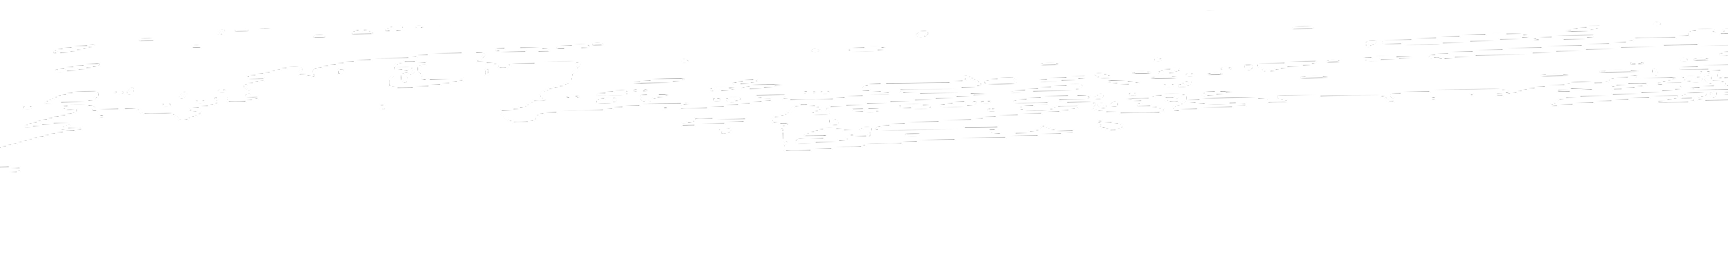
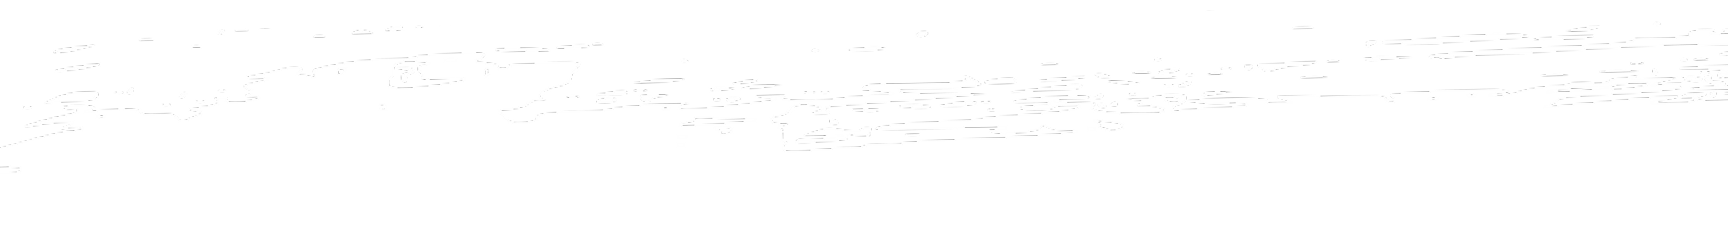
responsive update

diff --git a/src/components/Header.jsx b/src/components/Header.jsx
@@ -20,7 +20,7 @@ export default function Header({ onOpenEnquiry }) {
           <div className="max-w-[1728px] w-full mx-auto flex items-center justify-between">
 
             {/* Left: Phone + Email */}
-            <div className="flex items-center gap-6 text-white/70 text-[13px] md:text-[15px] font-medium tracking-[0.05em]"
+            <div className="hidden lg:flex  items-center gap-6 text-white/70 text-[13px] md:text-[15px] font-medium tracking-[0.05em]"
               style={{ fontFamily: 'Urbanist, sans-serif' }}>
               <span className="flex items-center gap-2">
                 <Phone size={16} className="text-white/70 shrink-0" />
@@ -33,7 +33,7 @@ export default function Header({ onOpenEnquiry }) {
             </div>
 
             {/* Right: Social Icons — leave enough right padding for the badge area */}
-            <div className="flex items-center gap-5 text-white/70 pr-2">
+            <div className="hidden lg:flex  items-center gap-5 text-white/70 pr-2">
               <a href="#" aria-label="Facebook" className="hover:text-[#b08f5a] transition-colors">
                 <FacebookIcon className="w-[18px] h-[18px]" />
               </a>
@@ -53,7 +53,7 @@ export default function Header({ onOpenEnquiry }) {
           <div className="max-w-[1728px] w-full mx-auto px-4 md:px-16 flex items-center justify-between">
 
             {/* Left Nav Links */}
-            <nav className="hidden md:flex items-center gap-10 lg:gap-16 ml-[12rem]">
+            <nav className="hidden md:flex items-center gap-10 lg:gap-16 xl:ml-[10rem] ">
               <a href="#home"
                 className="font-['Josefin_Sans'] text-lg lg:text-md font-bold text-[#035186] hover:text-[#b08f5a] transition-colors">
                 Home
@@ -68,7 +68,7 @@ export default function Header({ onOpenEnquiry }) {
             <div className="hidden md:block w-[200px] lg:w-[294px]" />
 
             {/* Right Nav Links */}
-            <nav className="hidden md:flex items-center gap-10 lg:gap-16 mr-[12rem]">
+            <nav className="hidden md:flex items-center gap-10 lg:gap-16 lg:mr-[10rem] ">
               <a href="#gallery"
                 className="font-['Josefin_Sans'] text-lg lg:text-md font-bold text-black hover:text-[#b08f5a] transition-colors">
                 Gallery

diff --git a/src/components/ContactSection.jsx b/src/components/ContactSection.jsx
@@ -121,12 +121,12 @@ export default function ContactSection({
                             </h3>
 
                             {/* Paragraph */}
-                            <p className="mt-3 text-xs leading-relaxed text-white/85 sm:text-sm sm:leading-relaxed  w-[20rem]">
+                            <p className="mt-3 text-xs leading-relaxed text-white/85 sm:text-sm sm:leading-relaxed  w-[13rem] md:w-full lg:w-[20rem]">
                                 Located in the beautiful coastal city of Galle, our hotel offers a peaceful stay surrounded by tropical scenery and the charm of southern Sri Lanka. Guests can easily explore the historic Galle Fort, beautiful beaches, local attractions, and nearby restaurants. Our hotel is an ideal place to enjoy your stay in Galle.
                             </p>
 
                             {/* Map Embed */}
-                            <div className="mt-5 overflow-hidden border border-white/20 shadow-md w-[20rem]">
+                            <div className="mt-5 overflow-hidden border border-white/20 shadow-md w-[13rem] lg:w-[20rem]">
                                 <iframe
                                     title="Hotel location map"
                                     src={mapEmbedUrl}

diff --git a/src/components/RoomTypes.jsx b/src/components/RoomTypes.jsx
@@ -62,7 +62,7 @@ const RoomTypes = () => {
                     ))}
                 </div>
             </div>
-            <div className="relative z-20  -mb-[6rem]  mt-10 bottom-0">
+            <div className="relative z-20  -mb-[4rem]  md:-mb-[5rem] lg:-mb-[6rem]  xl:-mb-[6rem] mt-10 bottom-0">
                 <img
                     src="/images/gallerytopbrush.png"
                     alt=""

diff --git a/src/components/WhyChooseUsSection.jsx b/src/components/WhyChooseUsSection.jsx
@@ -75,7 +75,7 @@ export default function WhyChooseUsSection({ onOpenEnquiry, onSelectImage }) {
       </div>
 
       {/* Paint Brush Edge Stroke Divider at bottom of Section 2 (_14-white-grunge-brush-stroke-13-1) */}
-      <div className="relative z-20 mt-8">
+      <div className="relative z-20 absolute bottom-0 left-0 w-full">
         <img
           src="/images/brushimg.png"
           alt=""

diff --git a/src/components/AboutUsSection.jsx b/src/components/AboutUsSection.jsx
@@ -11,7 +11,7 @@ export default function AboutUsSection({ onOpenEnquiry, onSelectImage }) {
         <img
           src="/images/aboutbottombrush.png"
           alt=""
-          className="w-full h-20 sm:h-28 md:h-36 object-cover mt-[8rem]"
+          className="w-full h-20 sm:h-28 md:h-36 object-cover mt-[5rem] xl:mt-[8rem]"
         />
       </div>
 

diff --git a/src/components/OurFacilities.jsx b/src/components/OurFacilities.jsx
@@ -158,7 +158,7 @@ export default function OurFacilities({
       </div>
 
 
-      <div className="relative z-50  -mb-[4rem]   bottom-0">
+      <div className="relative z-50  -mb-[4rem]  xl:-mb-[rem]   bottom-0">
         <img
           src="/images/brushimg.png"
           alt="asdad"
